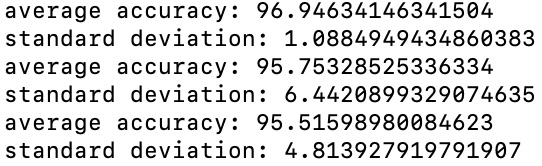
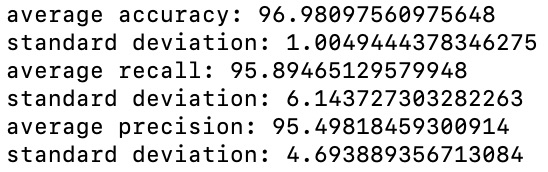
report edits

diff --git a/kNNMain.java b/kNNMain.java
@@ -153,10 +153,10 @@ public class kNNMain{
 	System.out.println("average accuracy: " + mean(accuracyPerIteration));
 	System.out.println("standard deviation: " + standardDeviation(accuracyPerIteration));
 	
-	System.out.println("average accuracy: " + mean(recallAccuracyPerIteration));
+	System.out.println("average recall: " + mean(recallAccuracyPerIteration));
 	System.out.println("standard deviation: " + standardDeviation(recallAccuracyPerIteration));
 	
-	System.out.println("average accuracy: " + mean(precisionPerIteration));
+	System.out.println("average precision: " + mean(precisionPerIteration));
 	System.out.println("standard deviation: " + standardDeviation(precisionPerIteration));
 	
   }

diff --git a/ErrorAnalysis.md b/ErrorAnalysis.md
@@ -4,22 +4,27 @@
 
 ## Distributions of Model Accuracy
 
-The test set is shuffled before its generation.  Thus, it will return different test values every test run.  There are 444 benign data points and 237 malignant data points.  If we were to assume that a program randomly assigned its results.  Its accuracy would be 50%.  If a program would assume all values to be benign, it would have a 65.19% accuracy rate.  This is a sensible lower bound for accuracy rates of program predicitons.
+The test set is shuffled before its generation.  Thus, it will return different test values every test run.  There are 444 benign data points and 237 malignant data points.  If we were to assume that a program randomly assigned its results.  Its accuracy would be 50%.  If a program would assume all values to be benign, it would have a 65.19% accuracy rate.  This is a sensible lower bound for accuracy rates of program predictions.
 
 
 ## Analysis of different error types
 
-A false positive is a return value positive (malignant), when the patient should actually be assigned a negative value (benign).  A false positive is a return value negative (benign), when the patient should actually be assigned a positive value (malignant).  Accuracy is total correct returns divided by total data points (or chances).  Recall is true positive returns divided by the value of total actual positive data points.  Precision is true positive returns divided by the total number of predicted positive values (predicted malignant).  A sensible lower bound for recall rates is 0%.  In this situation a program would predict false for all points.  A more sensible lower bound would be 50%, if all preicted returns were assigned a random value.  A sensible lower bound for a precision rate is about 69.6% for a randomly assigning predictor (this would be the total number of actual correct values divided by half the data).  
+A false positive is a return value of positive (malignant), when the patient should actually be assigned a negative value (benign).  A false negative is a return value of negative (benign), when the patient should actually be assigned a positive value (malignant).  Accuracy is total correct positive returns divided by total predicted positive data points.  Recall is true positive returns divided by the value of total actual positive data points.  Precision is true positive returns divided by the total number of predicted positive values (predicted malignant).  A sensible lower bound for recall rates is 0%.  In this situation, a program would predict false for all points.  A more sensible lower bound would be 50%, if all predicted returns were assigned a random value.  A sensible lower bound for a precision rate is about 69.6% for a randomly assigning predictor (this would be the total number of actual correct values divided by half the data).  Alternatively, if all returns were set to positive recall would be at 100%.
 
-##Results 
+## Results 
 
-average accuracy: 96.94634146341504
-standard deviation: 1.0884949434860383
-average accuracy: 95.75328525336334
-standard deviation: 6.4420899329074635
-average accuracy: 95.51598980084623
-standard deviation: 4.813927919791907 
+average accuracy: 96.98097560975648<br/>
+standard deviation: 1.0049444378346275<br/>
+average recall: 95.89465129579948<br/>
+standard deviation: 6.143727303282263<br/>
+average precision: 95.49818459300914<br/>
+standard deviation: 4.693889356713084<br/>
 
 These results are significantly above the baseline values.
+
+# Changes in K Value
+
+The previous results were conducted at a k value of 3.  As the k value increases recall is degraded, accuracy remains relatively constant, and precision increases marginally to an upper bound of 97%.
+
 
 ![Final Results](Results.jpg)
